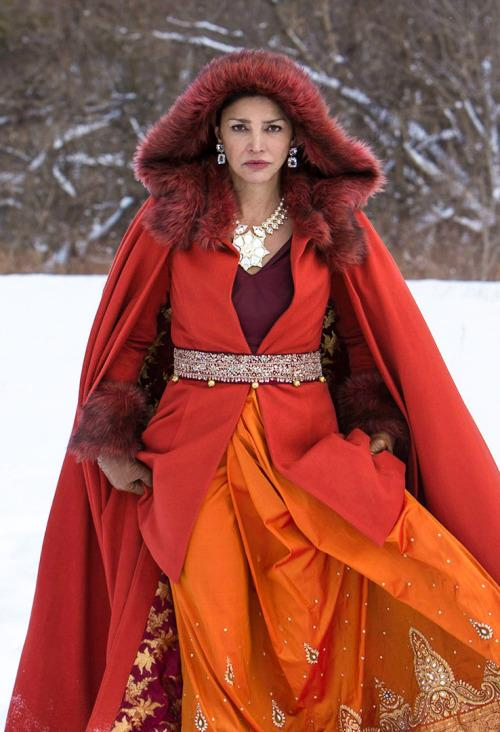
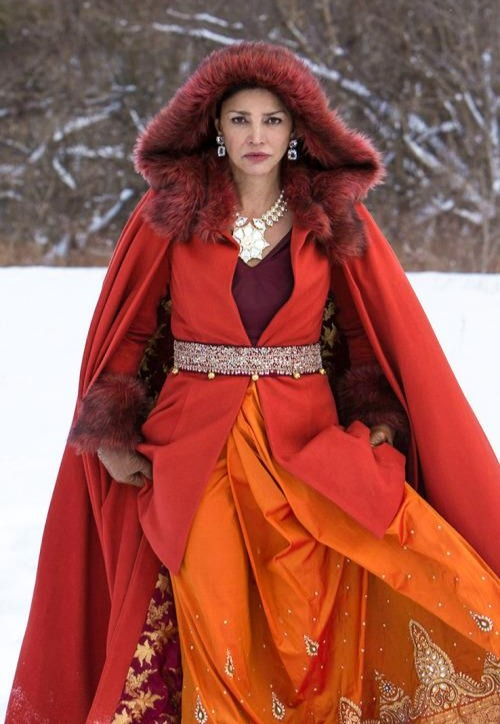
task17 переробка галереї

diff --git a/css/tasks_CSS/task17/index.html b/css/tasks_CSS/task17/index.html
@@ -109,88 +109,57 @@
       </section>
       <section id="gallery">
         <h2>Галерея</h2>
-        <table>
-          <tbody>
-            <tr>
-              <td colspan="2">
-                <figure class="capt_img">
-                  <img
-                    src="../../../assets/content_for_CSS/capt_holden.jpg"
-                    alt="Captain James 'Jim' Holden"
-                  />
-
-                  <figcaption>Капітан Джеймс Голден</figcaption>
-                </figure>
-              </td>
-            </tr>
-            <tr>
-              <td>
-                <figure>
-                  <img
-                    src="../../../assets/content_for_CSS/Amos_Burton.webp"
-                    alt="Amos Burton"
-                  />
-
-                  <figcaption>Амос Бертон</figcaption>
-                </figure>
-              </td>
-              <td>
-                <figure>
-                  <img
-                    src="../../../assets/content_for_CSS/Naomi_Nagata.webp"
-                    alt="Naomi Nagata"
-                  />
-
-                  <figcaption>Наомі Нагата</figcaption>
-                </figure>
-              </td>
-            </tr>
-            <tr>
-              <td>
-                <figure>
-                  <img
-                    src="../../../assets/content_for_CSS/Alex_Kamal.webp"
-                    alt="Alex Kamal"
-                  />
-
-                  <figcaption>Алекс Камал</figcaption>
-                </figure>
-              </td>
-              <td>
-                <figure>
-                  <img
-                    src="../../../assets/content_for_CSS/Julie_Mao.webp"
-                    alt="Julie Mao"
-                  />
-
-                  <figcaption>Джульєтт Андромеда Мао</figcaption>
-                </figure>
-              </td>
-            </tr>
-            <tr>
-              <td>
-                <figure>
-                  <img
-                    src="../../../assets/content_for_CSS/Josephus_Aloisus_Miller.webp"
-                    alt="Joe Miller"
-                  />
-
-                  <figcaption>Детектив Джо Міллер</figcaption>
-                </figure>
-              </td>
-              <td>
-                <figure>
-                  <img
-                    src="../../../assets/content_for_CSS/Chrisjen Avasarala.jpg"
-                    alt="Chrisjen Avasarala"
-                  />
-
-                  <figcaption>Крісджен Авасарала</figcaption>
-                </figure>
-              </td>
-            </tr>
-          </tbody>
-        </table>
+        <div class="gallery">
+          <div class="capt_img">
+            <img
+              src="../../../assets/content_for_CSS/capt_holden.jpg"
+              alt="James Holden"
+            />
+            <p>Капітан Джеймс Голден</p>
+          </div>
+          <div>
+            <img
+              src="../../../assets/content_for_CSS/Amos_Burton.webp"
+              alt="Amos Burton"
+            />
+            <p>Амос Бертон</p>
+          </div>
+          <div>
+            <img
+              src="../../../assets/content_for_CSS/Naomi_Nagata.webp"
+              alt="Naomi Nagata"
+            />
+            <p>Наомі Нагата</p>
+          </div>
+          <div>
+            <img
+              src="../../../assets/content_for_CSS/Alex_Kamal.webp"
+              alt="Alex Kamal"
+            />
+            <p>Алекс Камал</p>
+          </div>
+          <div>
+            <img
+              src="../../../assets/content_for_CSS/Julie_Mao.webp"
+              alt="Julie Mao"
+            />
+            <p>Джульєтт Андромеда Мао</p>
+          </div>
+          <div>
+            <img
+              src="../../../assets/content_for_CSS/Josephus_Aloisus_Miller.webp"
+              alt="Joe Miller"
+            />
+            <p>Детектив Джозеф Міллер</p>
+          </div>
+          <div>
+            <img
+              src="../../../assets/content_for_CSS/Chrisjen Avasarala.jpg"
+              alt="Chrisjen Avasarala"
+            />
+            <p>Крісджен Авасарала</p>
+          </div>
+        </div>
         <div class="gallery-container">
           <img
             src="https://images.kinorium.com/movie/shot/739853/h280_39449674.jpg?21576463243"
@@ -366,23 +335,6 @@
             </ul>
           </li>
         </ol>
-      </section>
-      <section class="gallery-2">
-        <div>
-          <img src="../../../assets/content_for_CSS/capt_holden.jpg" alt="" />
-          <p>Капітан Джеймс Голден</p>
-        </div>
-        <div>
-          <img src="../../../assets/content_for_CSS/capt_holden.jpg" alt="" />
-          <p>Капітан Джеймс Голден</p>
-        </div>
-        <div>
-          <img src="../../../assets/content_for_CSS/capt_holden.jpg" alt="" />
-          <p>Капітан Джеймс Голден</p>
-        </div>
-        <div></div>
-        <div></div>
-        <div></div>
       </section>
     </main>
     <footer>

diff --git a/css/tasks_CSS/task17/index.css b/css/tasks_CSS/task17/index.css
@@ -182,49 +182,46 @@ h2 {
 
 /* --------------------gallery------------------ */
 
-@media screen and (max-width: 600px) {
-  #gallery table tr td {
-    display: flex;
-    width: 100%;
-  }
-  #gallery .capt_img {
-    width: 90%;
-  }
-
-  #gallery table tr td {
-    margin: 8px;
-  }
-}
-
-/* ________________таблиця */
-#gallery table {
-  border-spacing: 12px;
-}
-#gallery table td {
+.gallery div {
+  display: inline-block;
   text-align: center;
-  border: 2px solid;
+  width: 47%;
+  padding: 24px;
+  margin: 8px;
+  border: 2px solid black;
   border-radius: 48px;
 }
-#gallery table td {
-  width: 50%;
+.gallery p {
+  text-align: center;
+  margin: 8px 0px;
 }
-
-/* _________________зображення */
-#gallery img {
+.gallery img {
   width: 90%;
   border-radius: 8px;
   filter: sepia(90%);
 }
-
-#gallery img:hover {
+.gallery img:hover {
   filter: none;
   transform: scale(1.1);
   transition: transform 0.5s ease;
 }
-.capt_img {
-  width: 50%;
-  margin: 12px auto;
+.gallery .capt_img {
+  display: block;
+  width: 60%;
+
+  margin: 8px auto;
 }
+@media screen and (max-width: 600px) {
+  .gallery div {
+    width: 80%;
+    margin: 8px auto;
+    display: block;
+  }
+  .gallery div:first-child {
+    width: 80%;
+  }
+}
+
 /* --------------------галерея з прокруткою */
 
 .gallery-container {
@@ -384,33 +381,10 @@ footer a:hover {
   width: 35px;
   text-decoration: none;
   position: fixed;
-  bottom: 40%;
+  bottom: 30%;
   right: 4px;
 }
 .btn-group a:hover {
   transform: translateY(-5px);
 }
 /* ========================================================= */
-
-.gallery-2 div {
-  width: 50%;
-  padding: 24px;
-  margin: 12px;
-  border: 2px solid black;
-  border-radius: 48px;
-  text-align: center;
-}
-.gallery-2 p {
-  text-align: center;
-  margin: 8px 0px;
-}
-.gallery-2 img {
-  width: 90%;
-  border-radius: 8px;
-  filter: sepia(90%);
-}
-.gallery-2 img:hover {
-  filter: none;
-  transform: scale(1.1);
-  transition: transform 0.5s ease;
-}
